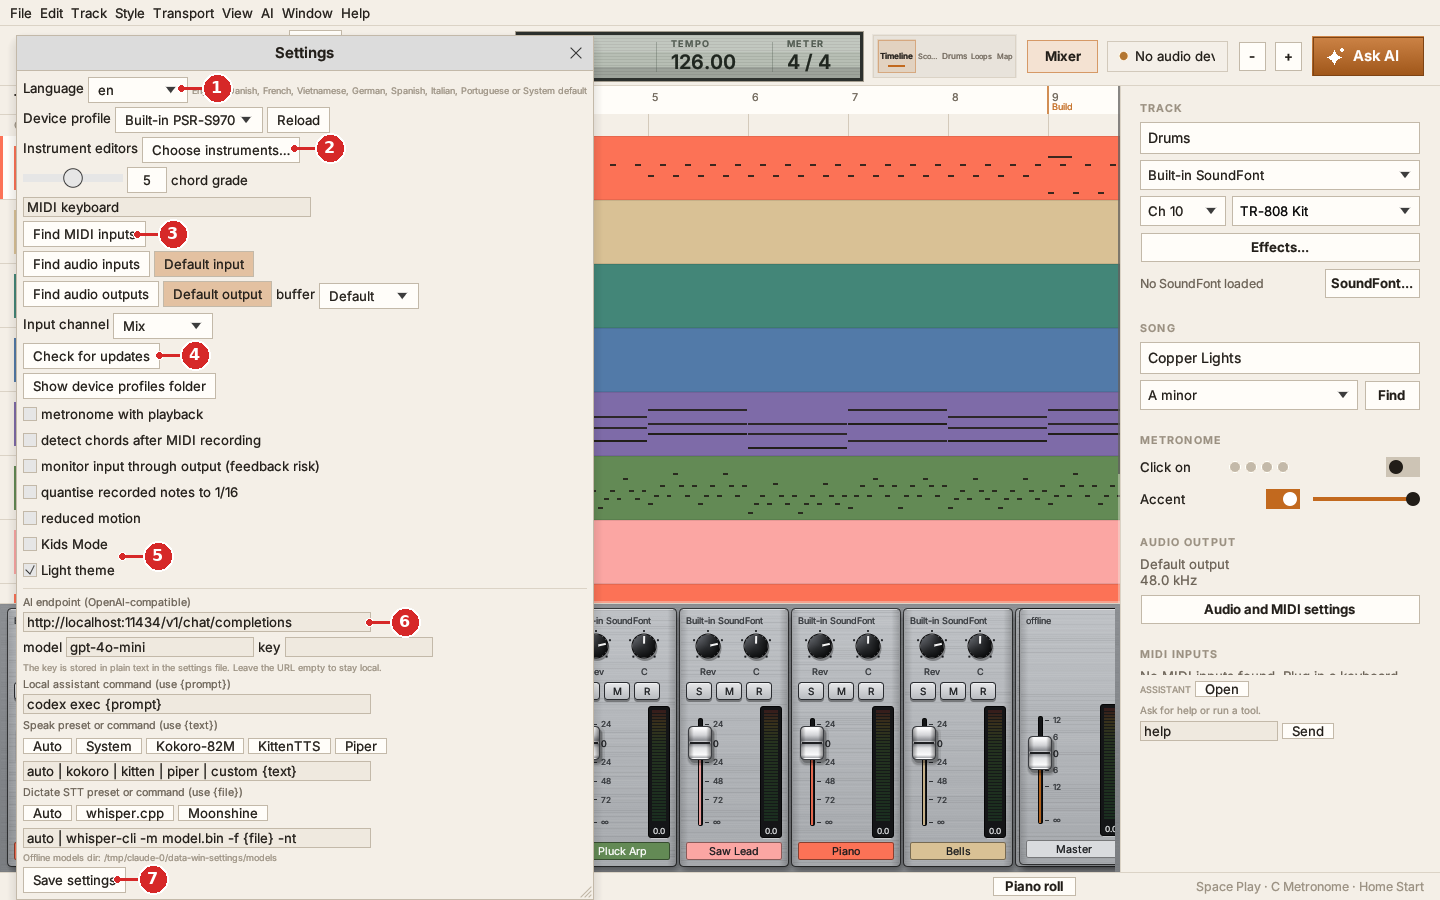
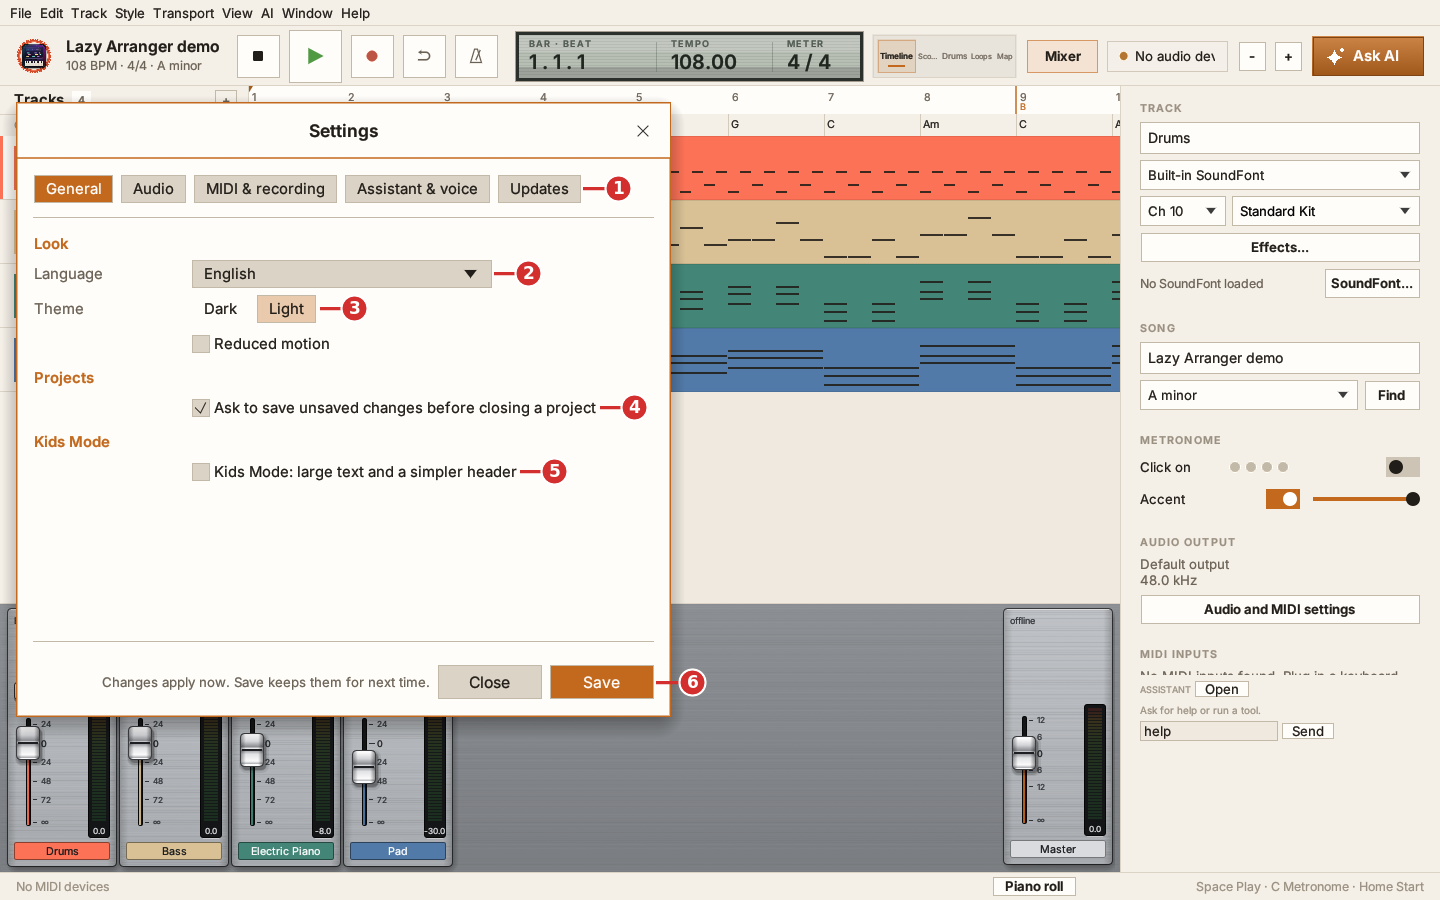
release: 0.1.0-beta.8
Bump the version, add the changelog section for PRs 44 and 45, and
update the manual's Settings section and picture for the new tabs.

Claude-Session: https://claude.ai/code/session_01MQnomuBGRJma8vWUDLo8yD

diff --git a/docs/manual/user-manual.md b/docs/manual/user-manual.md
@@ -1,6 +1,6 @@
 # Lazy Arranger Midi DAW — User Manual
 
-Version 0.1.0-beta.7
+Version 0.1.0-beta.8
 
 This manual tells you how to use Lazy Arranger Midi DAW. It is for musicians,
 not programmers. Each picture has red numbers. The list under the picture
@@ -389,21 +389,24 @@ Open Settings with **File > Settings…** or **Ctrl/Cmd+,**.
 
 ![Settings](images/settings.png)
 
-1. **Language.** English, Danish, French, Vietnamese, German, Spanish,
+1. **Tabs.** Settings has five tabs:
+   - **General:** language, theme, reduced motion, the save question and
+     Kids Mode.
+   - **Audio:** output device, buffer size, metronome with playback, input
+     device, input channel and input monitoring.
+   - **MIDI & recording:** MIDI input, device profile, instrument editors,
+     chord grade, quantise to 1/16 and find chords after recording.
+   - **Assistant & voice:** the address, model and key of an AI service, a
+     local AI command, and the speech presets (read aloud and dictate).
+   - **Updates:** your version and **Check for updates**.
+2. **Language.** English, Danish, French, Vietnamese, German, Spanish,
    Italian, Portuguese, or the language of your computer.
-2. **Instrument editors.** Choose the instruments that you own.
-3. **MIDI and audio.** Find MIDI inputs, audio inputs and audio outputs.
-   Choose the input channel and the audio buffer size.
-4. **Check for updates.** Tells you when a new version is on the Releases
-   page.
-5. **Options.** Metronome with playback, ask to save unsaved changes
-   before quitting, find chords after recording, monitor the input,
-   quantise to 1/16, reduced motion, **Kids Mode** and **Light theme**.
-   With the save question off, the app quits without asking; your edits
-   stay in the autosave.
-6. **AI.** The address, model and key of an AI service, a local AI command,
-   and the speech presets (read aloud and dictate).
-7. **Save settings.** Saves your changes.
+3. **Theme.** Dark or Light.
+4. **Ask to save unsaved changes.** With the question off, the app closes
+   a project without asking; your edits stay in the autosave.
+5. **Kids Mode.** Large text and a simpler header.
+6. **Save.** Changes apply at once. Save keeps them for next time.
+   **Close** shuts the window.
 
 The AI key is stored as plain text in the settings file on your computer.
 Leave the address empty to keep everything on your computer.

diff --git a/CHANGELOG.md b/CHANGELOG.md
@@ -5,6 +5,8 @@ All notable changes to Lazy Arranger (Rust) are listed here. Versions follow
 
 ## [Unreleased]
 
+## [0.1.0-beta.8] - 2026-11-27
+
 ### Changed
 - Settings is tidied into tabs (General, Audio, MIDI & recording,
   Assistant & voice, Updates). Each tab is a clean form with labels on the
